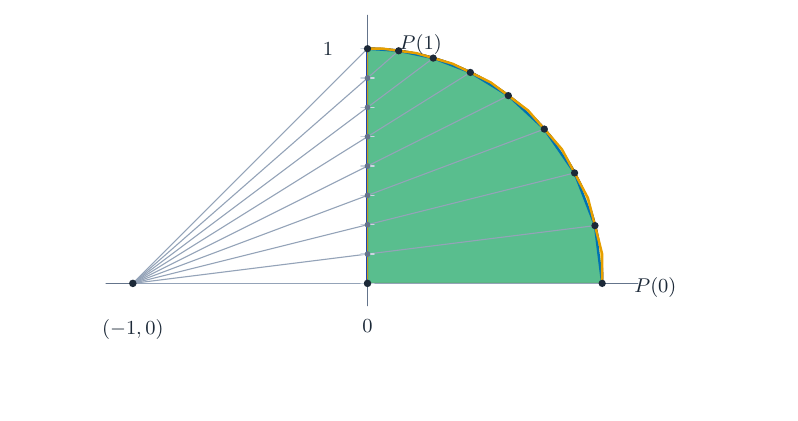
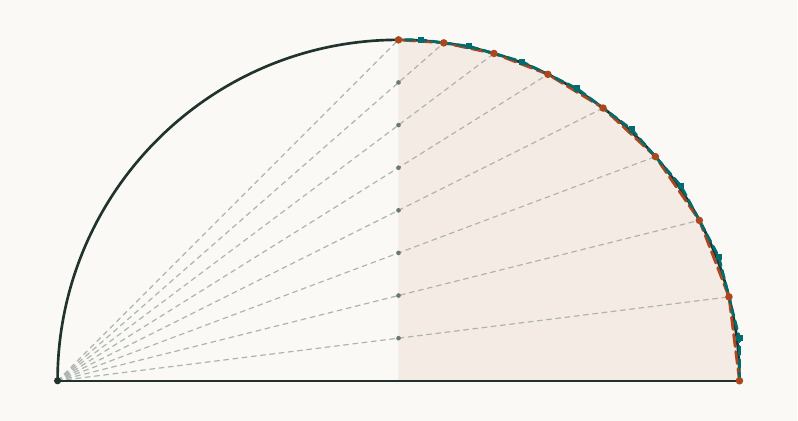
Draw the rational subdivision on an unlabeled semicircle

diff --git a/blueprint/src/assets/tikz/rational-circle-subdivision/frame-4.tex b/blueprint/src/assets/tikz/rational-circle-subdivision/frame-4.tex
@@ -39,58 +39,50 @@
 \begin{document}
 \noindent\begin{tikzpicture}[baseline=(current bounding box.north),x=1pt,y=1pt,line cap=round,line join=round]
 \useasboundingbox (0,0) rectangle (360,190);
-\draw[axis,line width=.75pt] (48,62) -- (288,62);
-\draw[axis,line width=.75pt] (166,52) -- (166,183);
-\draw[curve,line width=1pt] (166,62) -- (166,168);
-\draw[ink,line width=1.2pt] (272,62) arc[start angle=0,end angle=90,radius=106pt];
-\path[fill=overfill] (166,62) -- (272,62) -- (272,75.25) -- (265.5758,100.5455) -- (253.8286,122.5714) -- (238.5263,140.1053) -- (221.5238,152.8571) -- (204.3404,161.234) -- (188,166) -- (173.0667,168) -- (166,168) -- cycle;
-\path[fill=sharedfill] (166,62) -- (272,62) -- (268.7385,88.0923) -- (259.5294,111.8824) -- (245.863,131.6986) -- (229.6,146.8) -- (212.4494,157.2809) -- (195.68,163.76) -- (180.0708,167.0619) -- (166,168) -- cycle;
-\draw[under,draw opacity=.8,line width=.45pt] (166,62) -- (272,62) -- (268.7385,88.0923) -- (259.5294,111.8824) -- (245.863,131.6986) -- (229.6,146.8) -- (212.4494,157.2809) -- (195.68,163.76) -- (180.0708,167.0619) -- (166,168) -- cycle;
-\draw[over,draw opacity=.8,line width=.45pt] (166,62) -- (272,62) -- (272,75.25) -- (265.5758,100.5455) -- (253.8286,122.5714) -- (238.5263,140.1053) -- (221.5238,152.8571) -- (204.3404,161.234) -- (188,166) -- (173.0667,168) -- (166,168) -- cycle;
-\draw[projection,line width=.5pt] (60,62) -- (272,62);
-\draw[grid,line width=.5pt] (163,62) -- (169,62);
-\fill[axis] (166,62) circle[radius=1.3pt];
-\draw[projection,line width=.5pt] (60,62) -- (268.7385,88.0923);
-\draw[grid,line width=.5pt] (163,75.25) -- (169,75.25);
-\fill[axis] (166,75.25) circle[radius=1.3pt];
-\draw[projection,line width=.5pt] (60,62) -- (259.5294,111.8824);
-\draw[grid,line width=.5pt] (163,88.5) -- (169,88.5);
-\fill[axis] (166,88.5) circle[radius=1.3pt];
-\draw[projection,line width=.5pt] (60,62) -- (245.863,131.6986);
-\draw[grid,line width=.5pt] (163,101.75) -- (169,101.75);
-\fill[axis] (166,101.75) circle[radius=1.3pt];
-\draw[projection,line width=.5pt] (60,62) -- (229.6,146.8);
-\draw[grid,line width=.5pt] (163,115) -- (169,115);
-\fill[axis] (166,115) circle[radius=1.3pt];
-\draw[projection,line width=.5pt] (60,62) -- (212.4494,157.2809);
-\draw[grid,line width=.5pt] (163,128.25) -- (169,128.25);
-\fill[axis] (166,128.25) circle[radius=1.3pt];
-\draw[projection,line width=.5pt] (60,62) -- (195.68,163.76);
-\draw[grid,line width=.5pt] (163,141.5) -- (169,141.5);
-\fill[axis] (166,141.5) circle[radius=1.3pt];
-\draw[projection,line width=.5pt] (60,62) -- (180.0708,167.0619);
-\draw[grid,line width=.5pt] (163,154.75) -- (169,154.75);
-\fill[axis] (166,154.75) circle[radius=1.3pt];
-\draw[projection,line width=.5pt] (60,62) -- (166,168);
-\draw[grid,line width=.5pt] (163,168) -- (169,168);
-\fill[axis] (166,168) circle[radius=1.3pt];
-\draw[under,line width=1.1pt] plot coordinates {(272,62) (268.7385,88.0923) (259.5294,111.8824) (245.863,131.6986) (229.6,146.8) (212.4494,157.2809) (195.68,163.76) (180.0708,167.0619) (166,168)};
-\draw[over,line width=1.1pt] plot coordinates {(272,62) (272,75.25) (265.5758,100.5455) (253.8286,122.5714) (238.5263,140.1053) (221.5238,152.8571) (204.3404,161.234) (188,166) (173.0667,168) (166,168)};
-\fill[ink] (272,62) circle[radius=1.65pt];
-\fill[ink] (268.7385,88.0923) circle[radius=1.65pt];
-\fill[ink] (259.5294,111.8824) circle[radius=1.65pt];
-\fill[ink] (245.863,131.6986) circle[radius=1.65pt];
-\fill[ink] (229.6,146.8) circle[radius=1.65pt];
-\fill[ink] (212.4494,157.2809) circle[radius=1.65pt];
-\fill[ink] (195.68,163.76) circle[radius=1.65pt];
-\fill[ink] (180.0708,167.0619) circle[radius=1.65pt];
-\fill[ink] (166,168) circle[radius=1.65pt];
-\fill[ink] (166,62) circle[radius=1.7pt];
-\fill[ink] (60,62) circle[radius=1.7pt];
-\node[font=\small,text=ink,anchor=north] at (60,49) {$(-1,0)$};
-\node[font=\small,text=ink,anchor=north] at (166,49) {$0$};
-\node[font=\small,text=ink,anchor=east] at (154,168) {$1$};
-\node[font=\small,text=ink,anchor=west] at (283,60) {$P(0)$};
-\node[font=\small,text=ink,anchor=west] at (177,170) {$P(1)$};
+\definecolor{paper}{HTML}{FAF9F5}
+\definecolor{semicircle}{HTML}{20332E}
+\definecolor{lowerbound}{HTML}{AB471D}
+\definecolor{upperbound}{HTML}{006C70}
+\fill[paper] (0,0) rectangle (360,190);
+\fill[upperbound!10!paper] (180,18) -- (334,18) -- (334,37.25) -- (324.6667,74) -- (307.6,106) -- (285.3684,131.4737) -- (260.6667,150) -- (235.7021,162.1702) -- (211.9623,169.0943) -- (190.2667,172) -- (180,172) -- cycle;
+\fill[lowerbound!8!paper] (180,18) -- (334,18) -- (329.2615,55.9077) -- (315.8824,90.4706) -- (296.0274,119.2603) -- (272.4,141.2) -- (247.4831,156.427) -- (223.12,165.84) -- (200.4425,170.6372) -- (180,172) -- cycle;
+\draw[semicircle!35!paper,line width=.55pt,dash pattern=on 2.2pt off 2pt] (26,18) -- (329.2615,55.9077);
+\fill[semicircle!65!paper] (180,37.25) circle[radius=1.05pt];
+\draw[semicircle!35!paper,line width=.55pt,dash pattern=on 2.2pt off 2pt] (26,18) -- (315.8824,90.4706);
+\fill[semicircle!65!paper] (180,56.5) circle[radius=1.05pt];
+\draw[semicircle!35!paper,line width=.55pt,dash pattern=on 2.2pt off 2pt] (26,18) -- (296.0274,119.2603);
+\fill[semicircle!65!paper] (180,75.75) circle[radius=1.05pt];
+\draw[semicircle!35!paper,line width=.55pt,dash pattern=on 2.2pt off 2pt] (26,18) -- (272.4,141.2);
+\fill[semicircle!65!paper] (180,95) circle[radius=1.05pt];
+\draw[semicircle!35!paper,line width=.55pt,dash pattern=on 2.2pt off 2pt] (26,18) -- (247.4831,156.427);
+\fill[semicircle!65!paper] (180,114.25) circle[radius=1.05pt];
+\draw[semicircle!35!paper,line width=.55pt,dash pattern=on 2.2pt off 2pt] (26,18) -- (223.12,165.84);
+\fill[semicircle!65!paper] (180,133.5) circle[radius=1.05pt];
+\draw[semicircle!35!paper,line width=.55pt,dash pattern=on 2.2pt off 2pt] (26,18) -- (200.4425,170.6372);
+\fill[semicircle!65!paper] (180,152.75) circle[radius=1.05pt];
+\draw[semicircle!35!paper,line width=.55pt,dash pattern=on 2.2pt off 2pt] (26,18) -- (180,172);
+\fill[semicircle!65!paper] (180,172) circle[radius=1.05pt];
+\draw[semicircle,line width=.85pt] (26,18) -- (334,18);
+\draw[semicircle,line width=1.2pt] (334,18) arc[start angle=0,end angle=180,radius=154pt];
+\draw[lowerbound,line width=1.25pt,dash pattern=on 5.5pt off 2.3pt] (334,18) -- (329.2615,55.9077) -- (315.8824,90.4706) -- (296.0274,119.2603) -- (272.4,141.2) -- (247.4831,156.427) -- (223.12,165.84) -- (200.4425,170.6372) -- (180,172);
+\draw[upperbound,line width=1.25pt,dash pattern=on 3.7pt off 2.2pt] (334,18) -- (334,37.25) -- (324.6667,74) -- (307.6,106) -- (285.3684,131.4737) -- (260.6667,150) -- (235.7021,162.1702) -- (211.9623,169.0943) -- (190.2667,172) -- (180,172);
+\fill[semicircle] (26,18) circle[radius=1.6pt];
+\fill[lowerbound] (334,18) circle[radius=1.7pt];
+\fill[lowerbound] (329.2615,55.9077) circle[radius=1.7pt];
+\fill[lowerbound] (315.8824,90.4706) circle[radius=1.7pt];
+\fill[lowerbound] (296.0274,119.2603) circle[radius=1.7pt];
+\fill[lowerbound] (272.4,141.2) circle[radius=1.7pt];
+\fill[lowerbound] (247.4831,156.427) circle[radius=1.7pt];
+\fill[lowerbound] (223.12,165.84) circle[radius=1.7pt];
+\fill[lowerbound] (200.4425,170.6372) circle[radius=1.7pt];
+\fill[lowerbound] (180,172) circle[radius=1.7pt];
+\fill[upperbound] (332.6,35.85) rectangle (335.4,38.65);
+\fill[upperbound] (323.2667,72.6) rectangle (326.0667,75.4);
+\fill[upperbound] (306.2,104.6) rectangle (309,107.4);
+\fill[upperbound] (283.9684,130.0737) rectangle (286.7684,132.8737);
+\fill[upperbound] (259.2667,148.6) rectangle (262.0667,151.4);
+\fill[upperbound] (234.3021,160.7702) rectangle (237.1021,163.5702);
+\fill[upperbound] (210.5623,167.6943) rectangle (213.3623,170.4943);
+\fill[upperbound] (188.8667,170.6) rectangle (191.6667,173.4);
 \end{tikzpicture}
 \end{document}

diff --git a/blueprint/src/assets/tikz/rational-circle-subdivision/frame-3.tex b/blueprint/src/assets/tikz/rational-circle-subdivision/frame-3.tex
@@ -39,42 +39,34 @@
 \begin{document}
 \noindent\begin{tikzpicture}[baseline=(current bounding box.north),x=1pt,y=1pt,line cap=round,line join=round]
 \useasboundingbox (0,0) rectangle (360,190);
-\draw[axis,line width=.75pt] (48,62) -- (288,62);
-\draw[axis,line width=.75pt] (166,52) -- (166,183);
-\draw[curve,line width=1pt] (166,62) -- (166,168);
-\draw[ink,line width=1.2pt] (272,62) arc[start angle=0,end angle=90,radius=106pt];
-\path[fill=overfill] (166,62) -- (272,62) -- (272,88.5) -- (248.4444,132.6667) -- (214.1818,158.3636) -- (181.1429,168) -- (166,168) -- cycle;
-\path[fill=sharedfill] (166,62) -- (272,62) -- (259.5294,111.8824) -- (229.6,146.8) -- (195.68,163.76) -- (166,168) -- cycle;
-\draw[under,draw opacity=.8,line width=.45pt] (166,62) -- (272,62) -- (259.5294,111.8824) -- (229.6,146.8) -- (195.68,163.76) -- (166,168) -- cycle;
-\draw[over,draw opacity=.8,line width=.45pt] (166,62) -- (272,62) -- (272,88.5) -- (248.4444,132.6667) -- (214.1818,158.3636) -- (181.1429,168) -- (166,168) -- cycle;
-\draw[projection,line width=.5pt] (60,62) -- (272,62);
-\draw[grid,line width=.5pt] (163,62) -- (169,62);
-\fill[axis] (166,62) circle[radius=1.3pt];
-\draw[projection,line width=.5pt] (60,62) -- (259.5294,111.8824);
-\draw[grid,line width=.5pt] (163,88.5) -- (169,88.5);
-\fill[axis] (166,88.5) circle[radius=1.3pt];
-\draw[projection,line width=.5pt] (60,62) -- (229.6,146.8);
-\draw[grid,line width=.5pt] (163,115) -- (169,115);
-\fill[axis] (166,115) circle[radius=1.3pt];
-\draw[projection,line width=.5pt] (60,62) -- (195.68,163.76);
-\draw[grid,line width=.5pt] (163,141.5) -- (169,141.5);
-\fill[axis] (166,141.5) circle[radius=1.3pt];
-\draw[projection,line width=.5pt] (60,62) -- (166,168);
-\draw[grid,line width=.5pt] (163,168) -- (169,168);
-\fill[axis] (166,168) circle[radius=1.3pt];
-\draw[under,line width=1.1pt] plot coordinates {(272,62) (259.5294,111.8824) (229.6,146.8) (195.68,163.76) (166,168)};
-\draw[over,line width=1.1pt] plot coordinates {(272,62) (272,88.5) (248.4444,132.6667) (214.1818,158.3636) (181.1429,168) (166,168)};
-\fill[ink] (272,62) circle[radius=1.65pt];
-\fill[ink] (259.5294,111.8824) circle[radius=1.65pt];
-\fill[ink] (229.6,146.8) circle[radius=1.65pt];
-\fill[ink] (195.68,163.76) circle[radius=1.65pt];
-\fill[ink] (166,168) circle[radius=1.65pt];
-\fill[ink] (166,62) circle[radius=1.7pt];
-\fill[ink] (60,62) circle[radius=1.7pt];
-\node[font=\small,text=ink,anchor=north] at (60,49) {$(-1,0)$};
-\node[font=\small,text=ink,anchor=north] at (166,49) {$0$};
-\node[font=\small,text=ink,anchor=east] at (154,168) {$1$};
-\node[font=\small,text=ink,anchor=west] at (283,60) {$P(0)$};
-\node[font=\small,text=ink,anchor=west] at (177,170) {$P(1)$};
+\definecolor{paper}{HTML}{FAF9F5}
+\definecolor{semicircle}{HTML}{20332E}
+\definecolor{lowerbound}{HTML}{AB471D}
+\definecolor{upperbound}{HTML}{006C70}
+\fill[paper] (0,0) rectangle (360,190);
+\fill[upperbound!10!paper] (180,18) -- (334,18) -- (334,56.5) -- (299.7778,120.6667) -- (250,158) -- (202,172) -- (180,172) -- cycle;
+\fill[lowerbound!8!paper] (180,18) -- (334,18) -- (315.8824,90.4706) -- (272.4,141.2) -- (223.12,165.84) -- (180,172) -- cycle;
+\draw[semicircle!35!paper,line width=.55pt,dash pattern=on 2.2pt off 2pt] (26,18) -- (315.8824,90.4706);
+\fill[semicircle!65!paper] (180,56.5) circle[radius=1.05pt];
+\draw[semicircle!35!paper,line width=.55pt,dash pattern=on 2.2pt off 2pt] (26,18) -- (272.4,141.2);
+\fill[semicircle!65!paper] (180,95) circle[radius=1.05pt];
+\draw[semicircle!35!paper,line width=.55pt,dash pattern=on 2.2pt off 2pt] (26,18) -- (223.12,165.84);
+\fill[semicircle!65!paper] (180,133.5) circle[radius=1.05pt];
+\draw[semicircle!35!paper,line width=.55pt,dash pattern=on 2.2pt off 2pt] (26,18) -- (180,172);
+\fill[semicircle!65!paper] (180,172) circle[radius=1.05pt];
+\draw[semicircle,line width=.85pt] (26,18) -- (334,18);
+\draw[semicircle,line width=1.2pt] (334,18) arc[start angle=0,end angle=180,radius=154pt];
+\draw[lowerbound,line width=1.25pt,dash pattern=on 5.5pt off 2.3pt] (334,18) -- (315.8824,90.4706) -- (272.4,141.2) -- (223.12,165.84) -- (180,172);
+\draw[upperbound,line width=1.25pt,dash pattern=on 3.7pt off 2.2pt] (334,18) -- (334,56.5) -- (299.7778,120.6667) -- (250,158) -- (202,172) -- (180,172);
+\fill[semicircle] (26,18) circle[radius=1.6pt];
+\fill[lowerbound] (334,18) circle[radius=1.7pt];
+\fill[lowerbound] (315.8824,90.4706) circle[radius=1.7pt];
+\fill[lowerbound] (272.4,141.2) circle[radius=1.7pt];
+\fill[lowerbound] (223.12,165.84) circle[radius=1.7pt];
+\fill[lowerbound] (180,172) circle[radius=1.7pt];
+\fill[upperbound] (332.6,55.1) rectangle (335.4,57.9);
+\fill[upperbound] (298.3778,119.2667) rectangle (301.1778,122.0667);
+\fill[upperbound] (248.6,156.6) rectangle (251.4,159.4);
+\fill[upperbound] (200.6,170.6) rectangle (203.4,173.4);
 \end{tikzpicture}
 \end{document}

diff --git a/scripts/generate_tikz_animations.py b/scripts/generate_tikz_animations.py
@@ -306,54 +306,47 @@ def sine_animation() -> Animation:
     return Animation("interval-sine-integral-stage", 360, 230, tuple(sine_frame(stage) for stage in stages), (1200, 1200, 1200, 1900), 1)
 
 
-def circle(value: float) -> tuple[float, float]:
+def circle(value: Fraction) -> tuple[Fraction, Fraction]:
     return ((1 - value * value) / (1 + value * value), 2 * value / (1 + value * value))
 
 
-def tangent(left: tuple[float, float], right: tuple[float, float]) -> tuple[float, float]:
+def tangent(left: tuple[Fraction, Fraction], right: tuple[Fraction, Fraction]) -> tuple[Fraction, Fraction]:
     determinant = left[0] * right[1] - left[1] * right[0]
     return ((right[1] - left[1]) / determinant, (left[0] - right[0]) / determinant)
 
 
 def circle_frame(cells: int) -> str:
-    x0, y0, radius = 166, 62, 106
+    x0, y0, radius = 180, 18, 154
     screen = lambda value: (x0 + radius * value[0], y0 + radius * value[1])
-    origin, west, north, east = screen((0, 0)), screen((-1, 0)), screen((0, 1)), screen((1, 0))
-    mesh = [i / cells for i in range(cells + 1)]
-    samples, plotted = [circle(t) for t in mesh], []
+    origin, west, east = screen((0, 0)), screen((-1, 0)), screen((1, 0))
+    mesh = [Fraction(i, cells) for i in range(cells + 1)]
+    samples = [circle(t) for t in mesh]
     plotted = [screen(point) for point in samples]
     outer = [screen(tangent(a, b)) for a, b in zip(samples, samples[1:])]
     out = [
-        rf"\draw[axis,line width=.75pt] ({q(west[0]-12)},{q(y0)}) -- ({q(east[0]+16)},{q(y0)});",
-        rf"\draw[axis,line width=.75pt] ({q(x0)},{q(y0-10)}) -- ({q(x0)},{q(north[1]+15)});",
-        rf"\draw[curve,line width=1pt] ({q(x0)},{q(y0)}) -- ({q(x0)},{q(north[1])});",
-        rf"\draw[ink,line width=1.2pt] ({q(east[0])},{q(y0)}) arc[start angle=0,end angle=90,radius={radius}pt];",
-        rf"\path[fill=overfill] ({q(origin[0])},{q(origin[1])}) -- {polygon([plotted[0], *outer, plotted[-1]])} -- cycle;",
-        rf"\path[fill=sharedfill] ({q(origin[0])},{q(origin[1])}) -- {polygon(plotted)} -- cycle;",
-        rf"\draw[under,draw opacity=.8,line width=.45pt] ({q(origin[0])},{q(origin[1])}) -- {polygon(plotted)} -- cycle;",
-        rf"\draw[over,draw opacity=.8,line width=.45pt] ({q(origin[0])},{q(origin[1])}) -- {polygon([plotted[0], *outer, plotted[-1]])} -- cycle;",
+        r"\definecolor{paper}{HTML}{FAF9F5}",
+        r"\definecolor{semicircle}{HTML}{20332E}",
+        r"\definecolor{lowerbound}{HTML}{AB471D}",
+        r"\definecolor{upperbound}{HTML}{006C70}",
+        r"\fill[paper] (0,0) rectangle (360,190);",
+        rf"\fill[upperbound!10!paper] {polygon([origin, plotted[0], *outer, plotted[-1]])} -- cycle;",
+        rf"\fill[lowerbound!8!paper] {polygon([origin, *plotted])} -- cycle;",
     ]
-    for value, endpoint in zip(mesh, plotted):
-        vertical = screen((0, value))
+    for value, endpoint in zip(mesh[1:], plotted[1:]):
         out += [
-            rf"\draw[projection,line width=.5pt] ({q(west[0])},{q(west[1])}) -- ({q(endpoint[0])},{q(endpoint[1])});",
-            rf"\draw[grid,line width=.5pt] ({q(vertical[0]-3)},{q(vertical[1])}) -- ({q(vertical[0]+3)},{q(vertical[1])});",
-            dot(*vertical, "axis", 1.3),
+            rf"\draw[semicircle!35!paper,line width=.55pt,dash pattern=on 2.2pt off 2pt] {polygon([west, endpoint])};",
+            dot(*screen((0, value)), "semicircle!65!paper", 1.05),
         ]
     out += [
-        rf"\draw[under,line width=1.1pt] plot coordinates {{{path(plotted)}}};",
-        rf"\draw[over,line width=1.1pt] plot coordinates {{{path([plotted[0], *outer, plotted[-1]])}}};",
+        rf"\draw[semicircle,line width=.85pt] {polygon([west, east])};",
+        rf"\draw[semicircle,line width=1.2pt] ({q(east[0])},{y0}) arc[start angle=0,end angle=180,radius={radius}pt];",
+        rf"\draw[lowerbound,line width=1.25pt,dash pattern=on 5.5pt off 2.3pt] {polygon(plotted)};",
+        rf"\draw[upperbound,line width=1.25pt,dash pattern=on 3.7pt off 2.2pt] {polygon([plotted[0], *outer, plotted[-1]])};",
+        dot(*west, "semicircle", 1.6),
     ]
-    out += [dot(*point, "ink", 1.65) for point in plotted]
-    out += [
-        dot(*origin, "ink", 1.7),
-        dot(*west, "ink", 1.7),
-        n(west[0], west[1] - 13, r"$(-1,0)$", "anchor=north"),
-        n(origin[0], origin[1] - 13, r"$0$", "anchor=north"),
-        n(north[0] - 12, north[1], r"$1$", "anchor=east"),
-        n(east[0] + 11, east[1] - 2, r"$P(0)$", "anchor=west"),
-        n(north[0] + 11, north[1] + 2, r"$P(1)$", "anchor=west"),
-    ]
+    out += [dot(*point, "lowerbound", 1.7) for point in plotted]
+    for x, y in outer:
+        out.append(rf"\fill[upperbound] ({q(x-1.4)},{q(y-1.4)}) rectangle ({q(x+1.4)},{q(y+1.4)});")
     return "\n".join(out)
 
 

diff --git a/blueprint/src/assets/tikz/rational-circle-subdivision/frame-2.tex b/blueprint/src/assets/tikz/rational-circle-subdivision/frame-2.tex
@@ -39,34 +39,26 @@
 \begin{document}
 \noindent\begin{tikzpicture}[baseline=(current bounding box.north),x=1pt,y=1pt,line cap=round,line join=round]
 \useasboundingbox (0,0) rectangle (360,190);
-\draw[axis,line width=.75pt] (48,62) -- (288,62);
-\draw[axis,line width=.75pt] (166,52) -- (166,183);
-\draw[curve,line width=1pt] (166,62) -- (166,168);
-\draw[ink,line width=1.2pt] (272,62) arc[start angle=0,end angle=90,radius=106pt];
-\path[fill=overfill] (166,62) -- (272,62) -- (272,115) -- (201.3333,168) -- (166,168) -- cycle;
-\path[fill=sharedfill] (166,62) -- (272,62) -- (229.6,146.8) -- (166,168) -- cycle;
-\draw[under,draw opacity=.8,line width=.45pt] (166,62) -- (272,62) -- (229.6,146.8) -- (166,168) -- cycle;
-\draw[over,draw opacity=.8,line width=.45pt] (166,62) -- (272,62) -- (272,115) -- (201.3333,168) -- (166,168) -- cycle;
-\draw[projection,line width=.5pt] (60,62) -- (272,62);
-\draw[grid,line width=.5pt] (163,62) -- (169,62);
-\fill[axis] (166,62) circle[radius=1.3pt];
-\draw[projection,line width=.5pt] (60,62) -- (229.6,146.8);
-\draw[grid,line width=.5pt] (163,115) -- (169,115);
-\fill[axis] (166,115) circle[radius=1.3pt];
-\draw[projection,line width=.5pt] (60,62) -- (166,168);
-\draw[grid,line width=.5pt] (163,168) -- (169,168);
-\fill[axis] (166,168) circle[radius=1.3pt];
-\draw[under,line width=1.1pt] plot coordinates {(272,62) (229.6,146.8) (166,168)};
-\draw[over,line width=1.1pt] plot coordinates {(272,62) (272,115) (201.3333,168) (166,168)};
-\fill[ink] (272,62) circle[radius=1.65pt];
-\fill[ink] (229.6,146.8) circle[radius=1.65pt];
-\fill[ink] (166,168) circle[radius=1.65pt];
-\fill[ink] (166,62) circle[radius=1.7pt];
-\fill[ink] (60,62) circle[radius=1.7pt];
-\node[font=\small,text=ink,anchor=north] at (60,49) {$(-1,0)$};
-\node[font=\small,text=ink,anchor=north] at (166,49) {$0$};
-\node[font=\small,text=ink,anchor=east] at (154,168) {$1$};
-\node[font=\small,text=ink,anchor=west] at (283,60) {$P(0)$};
-\node[font=\small,text=ink,anchor=west] at (177,170) {$P(1)$};
+\definecolor{paper}{HTML}{FAF9F5}
+\definecolor{semicircle}{HTML}{20332E}
+\definecolor{lowerbound}{HTML}{AB471D}
+\definecolor{upperbound}{HTML}{006C70}
+\fill[paper] (0,0) rectangle (360,190);
+\fill[upperbound!10!paper] (180,18) -- (334,18) -- (334,95) -- (231.3333,172) -- (180,172) -- cycle;
+\fill[lowerbound!8!paper] (180,18) -- (334,18) -- (272.4,141.2) -- (180,172) -- cycle;
+\draw[semicircle!35!paper,line width=.55pt,dash pattern=on 2.2pt off 2pt] (26,18) -- (272.4,141.2);
+\fill[semicircle!65!paper] (180,95) circle[radius=1.05pt];
+\draw[semicircle!35!paper,line width=.55pt,dash pattern=on 2.2pt off 2pt] (26,18) -- (180,172);
+\fill[semicircle!65!paper] (180,172) circle[radius=1.05pt];
+\draw[semicircle,line width=.85pt] (26,18) -- (334,18);
+\draw[semicircle,line width=1.2pt] (334,18) arc[start angle=0,end angle=180,radius=154pt];
+\draw[lowerbound,line width=1.25pt,dash pattern=on 5.5pt off 2.3pt] (334,18) -- (272.4,141.2) -- (180,172);
+\draw[upperbound,line width=1.25pt,dash pattern=on 3.7pt off 2.2pt] (334,18) -- (334,95) -- (231.3333,172) -- (180,172);
+\fill[semicircle] (26,18) circle[radius=1.6pt];
+\fill[lowerbound] (334,18) circle[radius=1.7pt];
+\fill[lowerbound] (272.4,141.2) circle[radius=1.7pt];
+\fill[lowerbound] (180,172) circle[radius=1.7pt];
+\fill[upperbound] (332.6,93.6) rectangle (335.4,96.4);
+\fill[upperbound] (229.9333,170.6) rectangle (232.7333,173.4);
 \end{tikzpicture}
 \end{document}

diff --git a/blueprint/src/assets/tikz/rational-circle-subdivision/frame-1.tex b/blueprint/src/assets/tikz/rational-circle-subdivision/frame-1.tex
@@ -39,30 +39,22 @@
 \begin{document}
 \noindent\begin{tikzpicture}[baseline=(current bounding box.north),x=1pt,y=1pt,line cap=round,line join=round]
 \useasboundingbox (0,0) rectangle (360,190);
-\draw[axis,line width=.75pt] (48,62) -- (288,62);
-\draw[axis,line width=.75pt] (166,52) -- (166,183);
-\draw[curve,line width=1pt] (166,62) -- (166,168);
-\draw[ink,line width=1.2pt] (272,62) arc[start angle=0,end angle=90,radius=106pt];
-\path[fill=overfill] (166,62) -- (272,62) -- (272,168) -- (166,168) -- cycle;
-\path[fill=sharedfill] (166,62) -- (272,62) -- (166,168) -- cycle;
-\draw[under,draw opacity=.8,line width=.45pt] (166,62) -- (272,62) -- (166,168) -- cycle;
-\draw[over,draw opacity=.8,line width=.45pt] (166,62) -- (272,62) -- (272,168) -- (166,168) -- cycle;
-\draw[projection,line width=.5pt] (60,62) -- (272,62);
-\draw[grid,line width=.5pt] (163,62) -- (169,62);
-\fill[axis] (166,62) circle[radius=1.3pt];
-\draw[projection,line width=.5pt] (60,62) -- (166,168);
-\draw[grid,line width=.5pt] (163,168) -- (169,168);
-\fill[axis] (166,168) circle[radius=1.3pt];
-\draw[under,line width=1.1pt] plot coordinates {(272,62) (166,168)};
-\draw[over,line width=1.1pt] plot coordinates {(272,62) (272,168) (166,168)};
-\fill[ink] (272,62) circle[radius=1.65pt];
-\fill[ink] (166,168) circle[radius=1.65pt];
-\fill[ink] (166,62) circle[radius=1.7pt];
-\fill[ink] (60,62) circle[radius=1.7pt];
-\node[font=\small,text=ink,anchor=north] at (60,49) {$(-1,0)$};
-\node[font=\small,text=ink,anchor=north] at (166,49) {$0$};
-\node[font=\small,text=ink,anchor=east] at (154,168) {$1$};
-\node[font=\small,text=ink,anchor=west] at (283,60) {$P(0)$};
-\node[font=\small,text=ink,anchor=west] at (177,170) {$P(1)$};
+\definecolor{paper}{HTML}{FAF9F5}
+\definecolor{semicircle}{HTML}{20332E}
+\definecolor{lowerbound}{HTML}{AB471D}
+\definecolor{upperbound}{HTML}{006C70}
+\fill[paper] (0,0) rectangle (360,190);
+\fill[upperbound!10!paper] (180,18) -- (334,18) -- (334,172) -- (180,172) -- cycle;
+\fill[lowerbound!8!paper] (180,18) -- (334,18) -- (180,172) -- cycle;
+\draw[semicircle!35!paper,line width=.55pt,dash pattern=on 2.2pt off 2pt] (26,18) -- (180,172);
+\fill[semicircle!65!paper] (180,172) circle[radius=1.05pt];
+\draw[semicircle,line width=.85pt] (26,18) -- (334,18);
+\draw[semicircle,line width=1.2pt] (334,18) arc[start angle=0,end angle=180,radius=154pt];
+\draw[lowerbound,line width=1.25pt,dash pattern=on 5.5pt off 2.3pt] (334,18) -- (180,172);
+\draw[upperbound,line width=1.25pt,dash pattern=on 3.7pt off 2.2pt] (334,18) -- (334,172) -- (180,172);
+\fill[semicircle] (26,18) circle[radius=1.6pt];
+\fill[lowerbound] (334,18) circle[radius=1.7pt];
+\fill[lowerbound] (180,172) circle[radius=1.7pt];
+\fill[upperbound] (332.6,170.6) rectangle (335.4,173.4);
 \end{tikzpicture}
 \end{document}

diff --git a/scripts/apply_chapter_gifs.py b/scripts/apply_chapter_gifs.py
@@ -1,4 +1,4 @@
-"""Collect chapter GIFs and place the revised square-root figure in the reader."""
+"""Publish revised chapter figures and collect the reader's GIFs for review."""
 
 import argparse
 import csv
@@ -79,9 +79,28 @@ def update_figure(site):
     preface.write_text(updated)
 
 
+def update_circle_figure(site):
+    page = site/'ch-circle-sphere.html'
+    image = 'images/img-0002.gif'
+    poster = 'images/rational-circle-subdivision.png'
+    assets = ROOT/'blueprint/src/assets'
+    shutil.copyfile(assets/'rational-circle-subdivision.gif', site/image)
+    shutil.copyfile(assets/'rational-circle-subdivision.png', site/poster)
+    alt = ('Rays from the left end of the semicircle locate points on its right arc. '
+           'Orange chords bound the quarter-disk from inside and teal tangents bound it from outside.')
+    picture = (f'<picture><source media="(prefers-reduced-motion: reduce)" srcset="{poster}">'
+               f'<img src="{image}" alt="{alt}" style="width:360pt;max-width:100%;height:auto"/></picture>')
+    pattern = (r'(<figure id="fig:rational-parameter-line">\s*<div class="centered">)'
+               r'(?:<picture>.*?</picture>|<img [^>]+>)')
+    updated, count = re.subn(pattern,lambda m: m[1]+picture,page.read_text(),flags=re.S)
+    assert count == 1, 'circle subdivision figure missing'
+    page.write_text(updated)
+
+
 if __name__ == '__main__':
     cli = argparse.ArgumentParser(description=__doc__)
     cli.add_argument('site',type=Path)
     site = cli.parse_args().site
-    collect(site)
+    update_circle_figure(site)
     update_figure(site)
+    collect(site)
